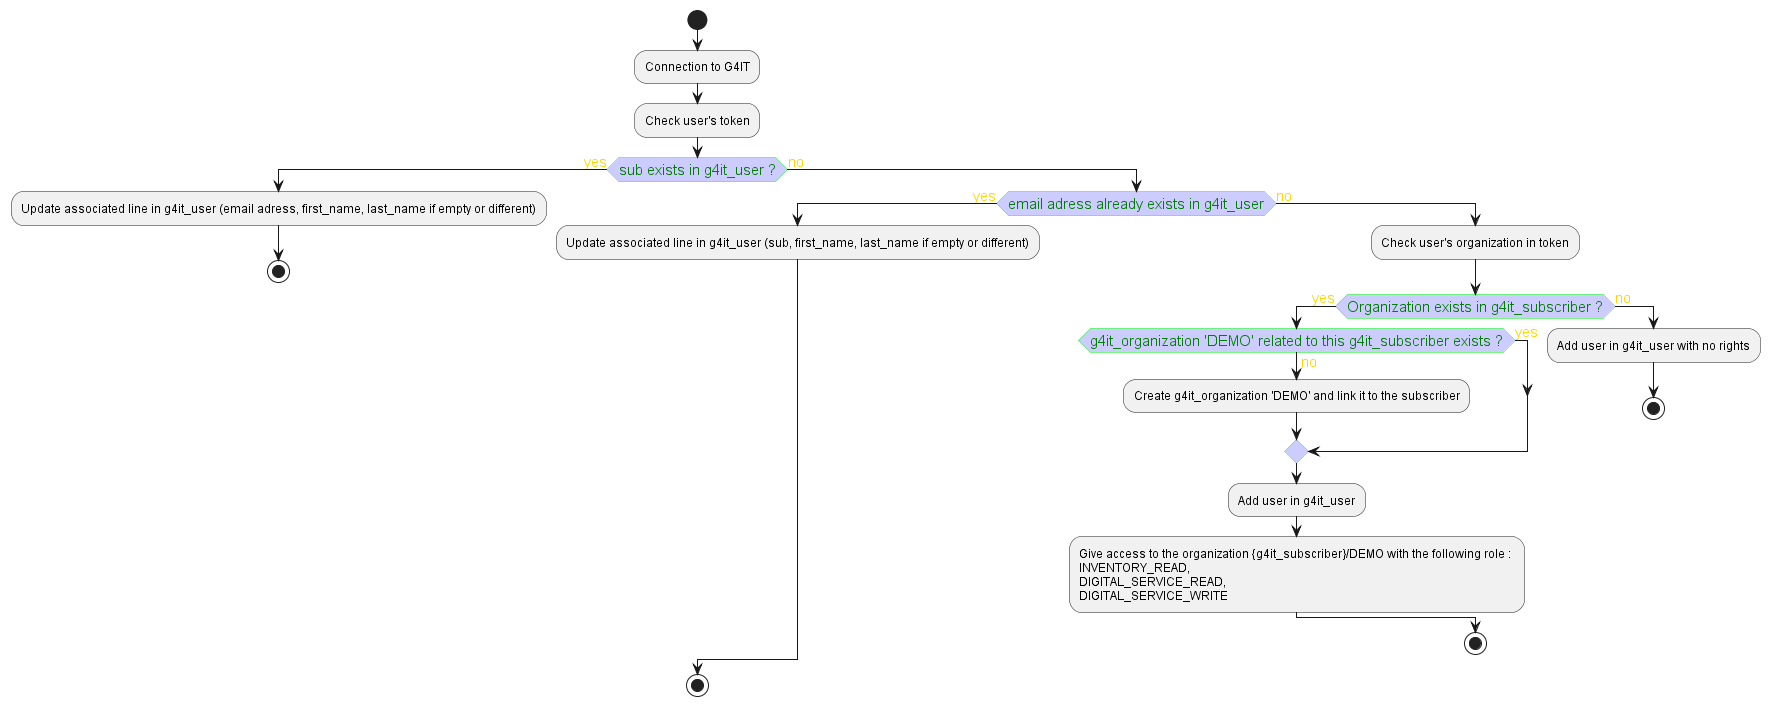
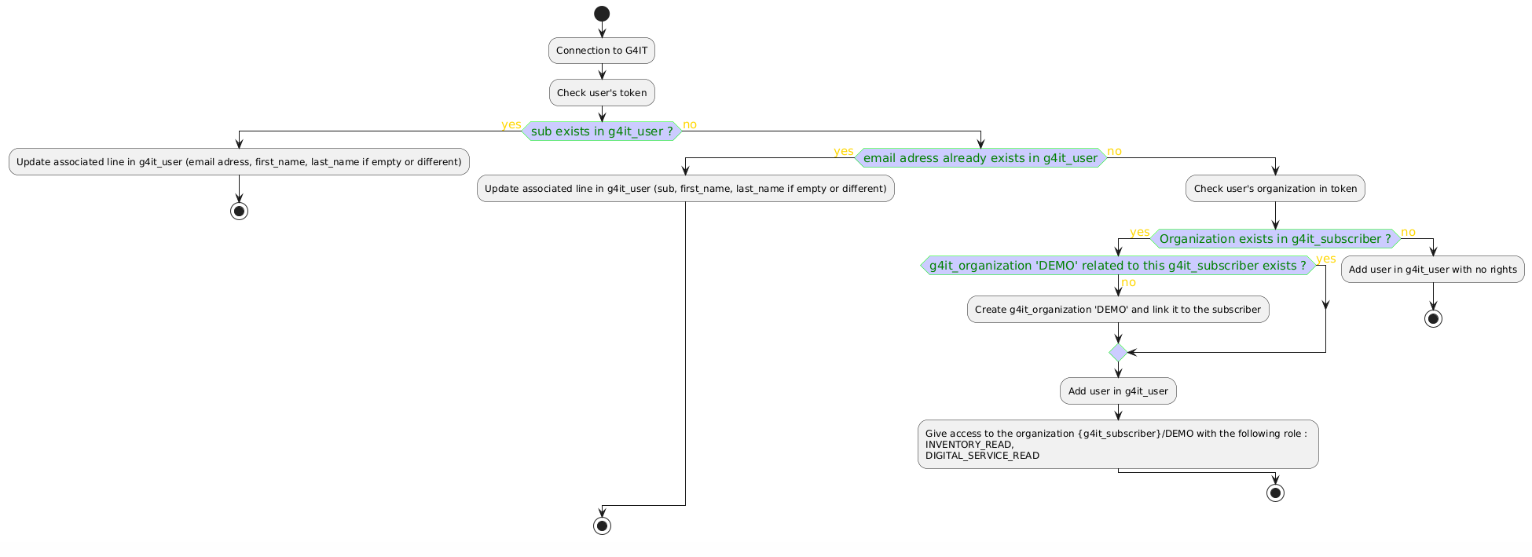
feat(1001): update user connection implementation

Changed region(s): [[0.0, 0.0305, 1.0, 0.9156], [0.3681, 0.9156, 0.4602, 0.9767], [0.9204, 0.5494, 0.951, 0.6104]]

diff --git a/services/frontend/src/app/core/service/data/super-admin-data.service.ts b/services/frontend/src/app/core/service/data/super-admin-data.service.ts
@@ -18,6 +18,6 @@ export class SuperAdminDataService {
     constructor(private http: HttpClient) {}
 
     migrateDataToNewFormat(): Observable<void> {
-        return this.http.post<void>(`${endpoint}/evaluate-all-ds-data`, {});
+        return this.http.post<void>(`${endpoint}/doAdminActions`, {});
     }
 }

diff --git a/services/backend/src/main/java/com/soprasteria/g4it/backend/apiadministratoractions/business/RoleManagementService.java b/services/backend/src/main/java/com/soprasteria/g4it/backend/apiadministratoractions/business/RoleManagementService.java
@@ -1,0 +1,60 @@
+/*
+ * G4IT
+ * Copyright 2023 Sopra Steria
+ *
+ * This product includes software developed by
+ * French Ecological Ministery (https://gitlab-forge.din.developpement-durable.gouv.fr/pub/numeco/m4g/numecoeval)
+ */
+
+package com.soprasteria.g4it.backend.apiadministratoractions.business;
+
+import com.soprasteria.g4it.backend.server.gen.api.dto.AllEvaluationStatusRest;
+import lombok.extern.slf4j.Slf4j;
+import org.springframework.dao.DataAccessException;
+import org.springframework.jdbc.core.ConnectionCallback;
+import org.springframework.jdbc.core.JdbcTemplate;
+import org.springframework.stereotype.Service;
+import org.springframework.transaction.annotation.Transactional;
+
+import java.sql.CallableStatement;
+import java.sql.SQLWarning;
+
+@Service
+@Slf4j
+public class RoleManagementService {
+
+    private final JdbcTemplate jdbcTemplate;
+
+    public RoleManagementService(JdbcTemplate jdbcTemplate) {
+        this.jdbcTemplate = jdbcTemplate;
+    }
+
+    @Transactional
+    public AllEvaluationStatusRest executeRoleCleanup() {
+        try {
+            log.info("START-- removal of Digital-service write access for non-admin users");
+
+            jdbcTemplate.execute((ConnectionCallback<Void>) connection -> {
+                // Call the procedure
+                try (CallableStatement cs = connection.prepareCall("CALL remove_write_role_for_demo_users()")) {
+                    cs.execute();
+
+                    //  Log NOTICE messages
+                    SQLWarning warning = cs.getWarnings();
+                    while (warning != null) {
+                        log.info("PostgreSQL NOTICE: {}", warning.getMessage());
+                        warning = warning.getNextWarning();
+                    }
+                }
+                return null;
+            });
+
+            log.info("COMPLETED-- write access for non-admin users");
+            return AllEvaluationStatusRest.builder().response("success").build();
+        } catch (DataAccessException ex) {
+            log.error("Failed to remove access: {}", ex.getMessage());
+            return AllEvaluationStatusRest.builder().response("error").build();
+        }
+    }
+
+}

diff --git a/services/backend/src/main/java/com/soprasteria/g4it/backend/apiadministratoractions/controller/AdministratorActionsRestController.java b/services/backend/src/main/java/com/soprasteria/g4it/backend/apiadministratoractions/controller/AdministratorActionsRestController.java
@@ -1,6 +1,7 @@
 package com.soprasteria.g4it.backend.apiadministratoractions.controller;
 
 import com.soprasteria.g4it.backend.apiadministratoractions.business.AdministratorActionsService;
+import com.soprasteria.g4it.backend.apiadministratoractions.business.RoleManagementService;
 import com.soprasteria.g4it.backend.server.gen.api.AdministratorActionsApiDelegate;
 import com.soprasteria.g4it.backend.server.gen.api.dto.AllEvaluationStatusRest;
 import lombok.extern.slf4j.Slf4j;
@@ -14,8 +15,9 @@ public class AdministratorActionsRestController implements AdministratorActionsA
     @Autowired
     AdministratorActionsService administratorActionsService;
 
+
     @Override
-    public ResponseEntity<AllEvaluationStatusRest> evaluateDigitalService() {
-        return ResponseEntity.ok(administratorActionsService.evaluateAllDigitalServices());
+    public ResponseEntity<AllEvaluationStatusRest> doAdminActions() {
+        return ResponseEntity.ok(administratorActionsService.executeWriteRoleCleanupOnDemoOrg());
     }
 }

diff --git a/services/backend/src/main/java/com/soprasteria/g4it/backend/apiadministratoractions/business/AdministratorActionsService.java b/services/backend/src/main/java/com/soprasteria/g4it/backend/apiadministratoractions/business/AdministratorActionsService.java
@@ -44,6 +44,8 @@ public class AdministratorActionsService {
 
     @Autowired
     TaskRepository taskRepository;
+    @Autowired
+    RoleManagementService roleManagementService;
 
     public AllEvaluationStatusRest evaluateAllDigitalServices() {
         List<DigitalService> digitalServices = digitalServiceRepository.findAll();
@@ -93,4 +95,10 @@ public class AdministratorActionsService {
         return AllEvaluationStatusRest.builder().response("success").build();
     }
 
+
+    public AllEvaluationStatusRest executeWriteRoleCleanupOnDemoOrg() {
+        //call procedure to remove
+        return roleManagementService.executeRoleCleanup();
+        // TODO call Digital Service migration service
+    }
 }

diff --git a/services/backend/src/main/java/com/soprasteria/g4it/backend/apiuser/business/UserService.java b/services/backend/src/main/java/com/soprasteria/g4it/backend/apiuser/business/UserService.java
@@ -136,8 +136,7 @@ public class UserService {
         } else {
             List<Role> accessRoles = List.of(
                     roleRepository.findByName(Constants.ROLE_INVENTORY_READ),
-                    roleRepository.findByName(Constants.ROLE_DIGITAL_SERVICE_READ),
-                    roleRepository.findByName(Constants.ROLE_DIGITAL_SERVICE_WRITE)
+                    roleRepository.findByName(Constants.ROLE_DIGITAL_SERVICE_READ)
             );
 
             User newUser = createNewUserWithDomain(accessRoles, userInfo);

diff --git a/CHANGELOG.md b/CHANGELOG.md
@@ -1,5 +1,13 @@
 # G4IT
 
+## 3.3.0
+
+### Major Changes
+
+- 1001 | Modify the first connection workflow
+
+### Minor Changes
+
 ## 3.2.0
 
 ### Major Changes
